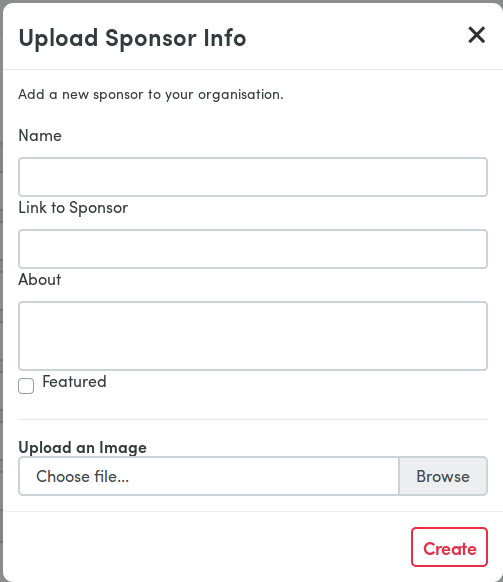
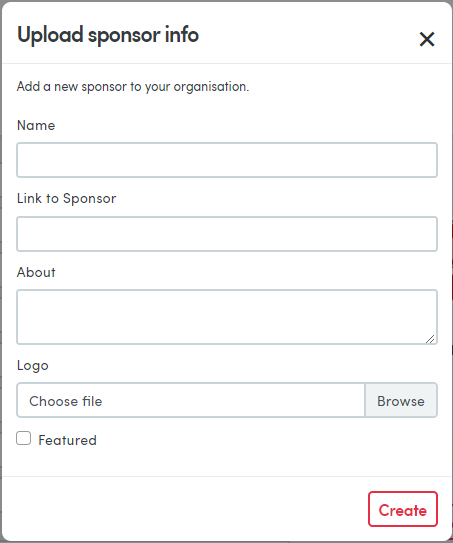
update screenshot in org profile

diff --git a/output/Data/HelpSystem.js b/output/Data/HelpSystem.js
@@ -1,6 +1,6 @@
 var xmlHelpSystemData = "";
 xmlHelpSystemData += '<?xml version=\"1.0\" encoding=\"utf-8\"?>';
-xmlHelpSystemData += '<WebHelpSystem DefaultUrl=\"Content/support/home.htm\" Toc=\"Data/Tocs/SupportWebsite.js\" Index=\"Data/Index.js\" Concepts=\"Data/Concepts.js\" Glossary=\"Data/Glossary.js\" SearchDatabase=\"Data/Search.js\" Alias=\"Data/Alias.xml\" Synonyms=\"Data/Synonyms.xml\" SearchUrl=\"Content/Search.htm\" PathToScriptsFolder=\"Resources/Scripts/\" SkinName=\"HTML5 - Top Navigation\" SkinID=\"HTML5___Top_Navigation\" Multilingual=\"false\" Skins=\"HTML5 - Top Navigation\" BuildTime=\"13/06/2018 12:09:29\" BuildVersion=\"14.0.6717.32249\" TargetType=\"WebHelp2\" SkinTemplateFolder=\"Skin/\" InPreviewMode=\"false\" TopNavTocPath=\"false\" MoveOutputContentToRoot=\"false\" ReplaceReservedCharacters=\"false\" MakeFileLowerCase=\"false\" UseCustomTopicFileExtension=\"false\" PreventExternalUrls=\"false\" EnableResponsiveOutput=\"true\" IncludeGlossarySearchResults=\"true\" ResultsPerPage=\"10\" xml:lang=\"en-gb\" LanguageName=\"English\" SearchEngine=\"MadCapSearch\" DebugMode=\"false\">';
+xmlHelpSystemData += '<WebHelpSystem DefaultUrl=\"Content/support/home.htm\" Toc=\"Data/Tocs/SupportWebsite.js\" Index=\"Data/Index.js\" Concepts=\"Data/Concepts.js\" Glossary=\"Data/Glossary.js\" SearchDatabase=\"Data/Search.js\" Alias=\"Data/Alias.xml\" Synonyms=\"Data/Synonyms.xml\" SearchUrl=\"Content/Search.htm\" PathToScriptsFolder=\"Resources/Scripts/\" SkinName=\"HTML5 - Top Navigation\" SkinID=\"HTML5___Top_Navigation\" Multilingual=\"false\" Skins=\"HTML5 - Top Navigation\" BuildTime=\"14/06/2018 12:24:44\" BuildVersion=\"14.0.6717.32249\" TargetType=\"WebHelp2\" SkinTemplateFolder=\"Skin/\" InPreviewMode=\"false\" TopNavTocPath=\"false\" MoveOutputContentToRoot=\"false\" ReplaceReservedCharacters=\"false\" MakeFileLowerCase=\"false\" UseCustomTopicFileExtension=\"false\" PreventExternalUrls=\"false\" EnableResponsiveOutput=\"true\" IncludeGlossarySearchResults=\"true\" ResultsPerPage=\"10\" xml:lang=\"en-gb\" LanguageName=\"English\" SearchEngine=\"MadCapSearch\" DebugMode=\"false\">';
 xmlHelpSystemData += '    <CatapultSkin Version=\"2\" SkinType=\"WebHelp2\" ComponentType=\"MasterPage\" TemplateName=\"Fluid\" Comment=\"HTML5 Fluid Layout\" EnableResponsiveOutput=\"true\" RemoveImagesOnSave=\"true\" Name=\"HTML5 - Top Navigation\" SkinID=\"HTML5___Top_Navigation\" SkinClass=\"_Skins_HTML5___Top_Navigation\" HideNavOnStartup=\"False\" LogoUrl=\"\">';
 xmlHelpSystemData += '        <WebHelpOptions NavigationPanePosition=\"Right\" />';
 xmlHelpSystemData += '    </CatapultSkin>';

diff --git a/output/Content/support/arro/joinos-community-about-our-school.htm b/output/Content/support/arro/joinos-community-about-our-school.htm
@@ -156,7 +156,7 @@
                                                 </ul>
                                                 <li value="13">To add sponsors for your organisation, click <span class="Name">+ Add Sponsor</span>.</li>
                                                 <p>The <span class="Name">Upload Sponsor info</span> form appears.</p>
-                                                <p><a class="MCPopupThumbnailLink MCPopupThumbnailPopup" href="../../Resources/Images/Arro common/uploadsponsorinfo.png"><img class="MCPopupThumbnail img imgThumbnail" data-mc-width="503" data-mc-height="582" src="../../Resources/Images/Arro common/uploadsponsorinfo_thumb_0_48.png" tabindex="" /></a>
+                                                <p><a class="MCPopupThumbnailLink MCPopupThumbnailPopup" href="../../Resources/Images/Arro common/uploadsponsorinfo.png"><img class="MCPopupThumbnail img imgThumbnail" data-mc-width="453" data-mc-height="543" src="../../Resources/Images/Arro common/uploadsponsorinfo_thumb_0_48.png" tabindex="" /></a>
                                                 </p>
                                                 <ol>
                                                     <li value="1">Enter the sponsor's <span class="Name">Name</span>.</li>
@@ -206,7 +206,7 @@
                                                 </ul>
                                                 <li value="12">To add sponsors for your organisation, click <span class="Name">+ Add Sponsor</span>.</li>
                                                 <p>The <span class="Name">Upload Sponsor info</span> form appears.</p>
-                                                <p><a class="MCPopupThumbnailLink MCPopupThumbnailPopup" href="../../Resources/Images/Arro common/uploadsponsorinfo.png"><img class="MCPopupThumbnail img imgThumbnail" data-mc-width="503" data-mc-height="582" src="../../Resources/Images/Arro common/uploadsponsorinfo_thumb_0_48.png" tabindex="" /></a>
+                                                <p><a class="MCPopupThumbnailLink MCPopupThumbnailPopup" href="../../Resources/Images/Arro common/uploadsponsorinfo.png"><img class="MCPopupThumbnail img imgThumbnail" data-mc-width="453" data-mc-height="543" src="../../Resources/Images/Arro common/uploadsponsorinfo_thumb_0_48.png" tabindex="" /></a>
                                                 </p>
                                                 <ol>
                                                     <li value="1">Enter the sponsor's <span class="Name">Name</span>.</li>

diff --git a/output/Content/support/arro/manage-organisation.htm b/output/Content/support/arro/manage-organisation.htm
@@ -151,7 +151,7 @@
                                                 </ul>
                                                 <li value="13">To add sponsors for your organisation, click <span class="Name">+ Add Sponsor</span>.</li>
                                                 <p>The <span class="Name">Upload Sponsor info</span> form appears.</p>
-                                                <p><a class="MCPopupThumbnailLink MCPopupThumbnailPopup" href="../../Resources/Images/Arro common/uploadsponsorinfo.png"><img class="MCPopupThumbnail img imgThumbnail" data-mc-width="503" data-mc-height="582" src="../../Resources/Images/Arro common/uploadsponsorinfo_thumb_0_48.png" tabindex="" /></a>
+                                                <p><a class="MCPopupThumbnailLink MCPopupThumbnailPopup" href="../../Resources/Images/Arro common/uploadsponsorinfo.png"><img class="MCPopupThumbnail img imgThumbnail" data-mc-width="453" data-mc-height="543" src="../../Resources/Images/Arro common/uploadsponsorinfo_thumb_0_48.png" tabindex="" /></a>
                                                 </p>
                                                 <ol>
                                                     <li value="1">Enter the sponsor's <span class="Name">Name</span>.</li>

diff --git a/output/Resources/Scripts/require.config.js b/output/Resources/Scripts/require.config.js
@@ -1,3 +1,3 @@
 require.config({
-    urlArgs: 't=636644885692420019'
+    urlArgs: 't=636645758841418026'
 });
